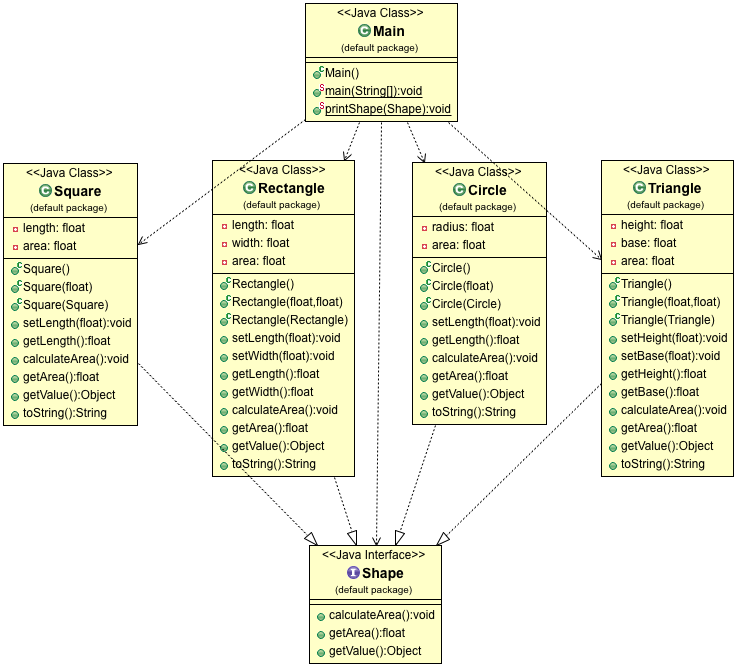
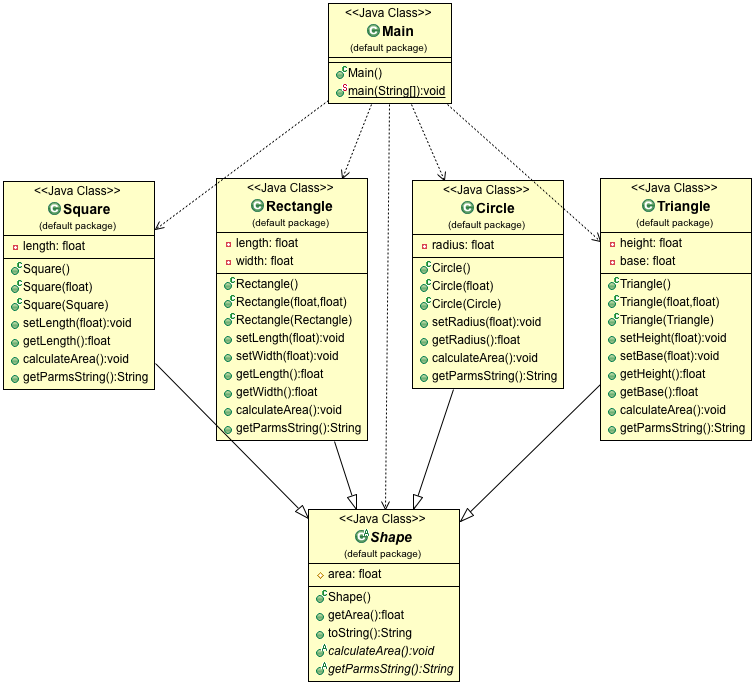
Final

diff --git a/src/Circle.java b/src/Circle.java
@@ -1,27 +1,29 @@
+/**
+ * State Diagram
+ * 
+ * Circle() -> s0
+ * Circle(radius) -> s0
+ * Circle(Circle c) -> s0
+ *
+ * s0: calculateArea() -> s1
+ * s1: getParmsString() -> s(terminal)
+ *
+ */
+public class Circle extends Shape {
 
-public class Circle implements Shape {
-
-	private float radius, area;
+	private float radius;
 
 	public Circle() { }
-	public Circle(float l) { radius = l; }
-	public Circle(Circle c) { radius = c.getLength(); }
-	public void setLength(float l) { radius = l; }
-	public float getLength() { return radius; }
-	
-	@Override
-	public void calculateArea() { area = (float) (Math.PI * radius * radius); }
+	public Circle(float r) { radius = r; }
+	public Circle(Circle c) { radius = c.getRadius(); }
+	public void setRadius(float r) { radius = r; }
+	public float getRadius() { return radius; }
 
 	@Override
-	public float getArea() { calculateArea(); return area; }
+	public void calculateArea()
+	{ area = (float) (Math.PI * radius * radius); }
 
 	@Override
-	public Object getValue() {
-		return String.format(" with Radius = %s is %s.", radius, getArea());
-	}
-
-	@Override
-	public String toString() {
-		return String.format("Area of Circle with Radius = %s is %s.", radius, getArea());
-	}
+	public String getParmsString()
+	{ return String.format("Radius = %s", radius); }
 }

diff --git a/src/Rectangle.java b/src/Rectangle.java
@@ -1,7 +1,17 @@
+/**
+ * State Diagram
+ * 
+ * Rectangle() -> s0
+ * Rectangle(length, width) -> s0
+ * Rectangle(Rectangle r) -> s0
+ *
+ * s0: calculateArea() -> s1
+ * s1: getParmsString() -> s(terminal)
+ *
+ */
+public class Rectangle extends Shape {
 
-public class Rectangle implements Shape {
-
-	private float length, width, area;
+	private float length, width;
 
 	public Rectangle() {	}
 	public Rectangle(float l, float w) { length = l; width = w; }
@@ -13,18 +23,8 @@ public class Rectangle implements Shape {
 
 	@Override
 	public void calculateArea() { area = length * width; }
-
+	
 	@Override
-	public float getArea() { calculateArea(); return area; }
-
-	@Override
-	public Object getValue() {
-		return String.format(" with Length = %s and Width = %s is %s.",
-				length, width, getArea());
-	}
-	@Override
-	public String toString() {
-		return String.format("Area of Rectangle with Length = %s and Width = %s is %s.",
-				length, width, getArea());
-	}
+	public String getParmsString()
+	{ return String.format("Length = %s and Width = %s", length, width ); }
 }

diff --git a/src/Triangle.java b/src/Triangle.java
@@ -1,7 +1,17 @@
+/**
+ * State Diagram
+ * 
+ * Triangle() -> s0
+ * Triangle(height, base) -> s0
+ * Triangle(Triangle r) -> s0
+ *
+ * s0: calculateArea() -> s1
+ * s1: getParmsString() -> s(terminal)
+ * 
+ */
+public class Triangle extends Shape {
 
-public class Triangle implements Shape {
-
-	private float height, base, area;
+	private float height, base;
 
 	public Triangle() { }
 	public Triangle(float h, float b) { height = h; base = b; }
@@ -15,17 +25,8 @@ public class Triangle implements Shape {
 	public void calculateArea() { area = height * base / 2.0f; }
 
 	@Override
-	public float getArea() { calculateArea(); return area; }
-
-	@Override
-	public Object getValue() {
-		return String.format(" with Height = %s and Base = %s is %s.",
-				height, base, getArea());
-	}
-
-	@Override
-	public String toString() {
-		return String.format("Area of Triangle with Height = %s and Base = %s is %s.",
+	public String getParmsString() {
+		return String.format("Height = %s and Base = %s",
 				height, base, getArea());
 	}
 }

diff --git a/src/Square.java b/src/Square.java
@@ -1,7 +1,17 @@
+/**
+ * State Diagram
+ * 
+ * Square() -> s0
+ * Square(length) -> s0
+ * Square(Square s) -> s0
+ *
+ * s0: calculateArea() -> s1
+ * s1: getParmsString() -> s(terminal)
+ *
+ */
+public class Square extends Shape {
 
-public class Square implements Shape {
-
-	private float length, area;
+	private float length;
 
 	public Square() { }
 	public Square(float l) { length = l; }
@@ -11,19 +21,9 @@ public class Square implements Shape {
 	
 	@Override
 	public void calculateArea() { area = length * length; }
-	
-	@Override
-	public float getArea() { calculateArea(); return area; }
 
 	@Override
-	public Object getValue() {
-		return String.format(" with Sides Length = %s is %s.",
-				length, getArea());
-	}
-
-	@Override
-	public String toString() {
-		return String.format("Area of Square with Sides Length = %s is %s.",
-				length, getArea());
+	public String getParmsString() {
+		return String.format("Length = %s", length);
 	}
 }

diff --git a/src/Shape.java b/src/Shape.java
@@ -1,8 +1,14 @@
 
-public interface Shape {
+public abstract class Shape {
 
-	void calculateArea();
-	float getArea();
-	Object getValue();
+	protected float area;
 
+	public float getArea() { calculateArea(); return area; }
+	public String toString() {
+		String className = this.getClass().getSimpleName();
+		return String.format("Area of %s with %s is %s.",
+				className, getParmsString(), getArea());
+	}
+	public abstract void calculateArea();
+	public abstract String getParmsString();
 }

diff --git a/src/Main.java b/src/Main.java
@@ -37,17 +37,5 @@ public class Main {
 		Shape triangle = new Triangle(5.0f, 5.0f);
 		triangle.calculateArea();
 		System.out.println(triangle.toString());
-
-		System.out.println("");
-		printShape(square);
-		printShape(circle);
-		printShape(rectangle);
-		printShape(triangle);
-	}
-
-	// Another way to print any Shape
-	public static void printShape(Shape s) {
-		String className = s.getClass().getSimpleName();
-		System.out.println("Area of " + className + s.getValue());
 	}
 }
